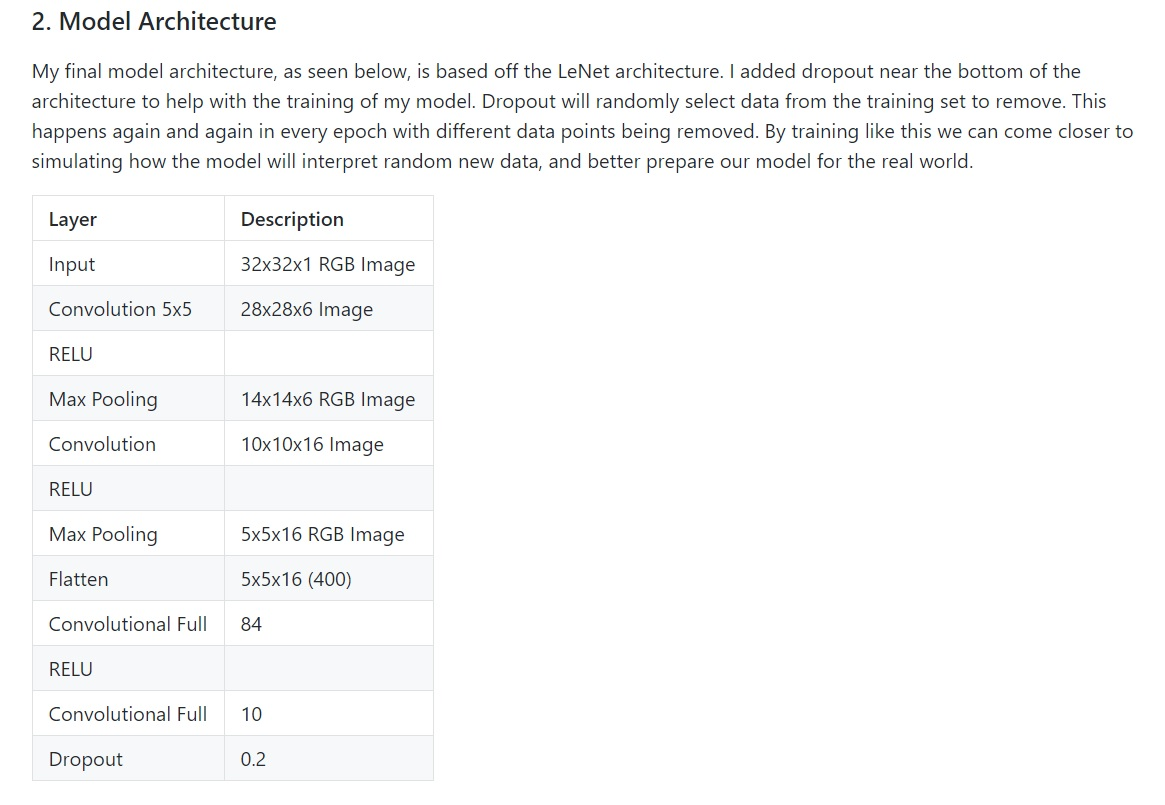
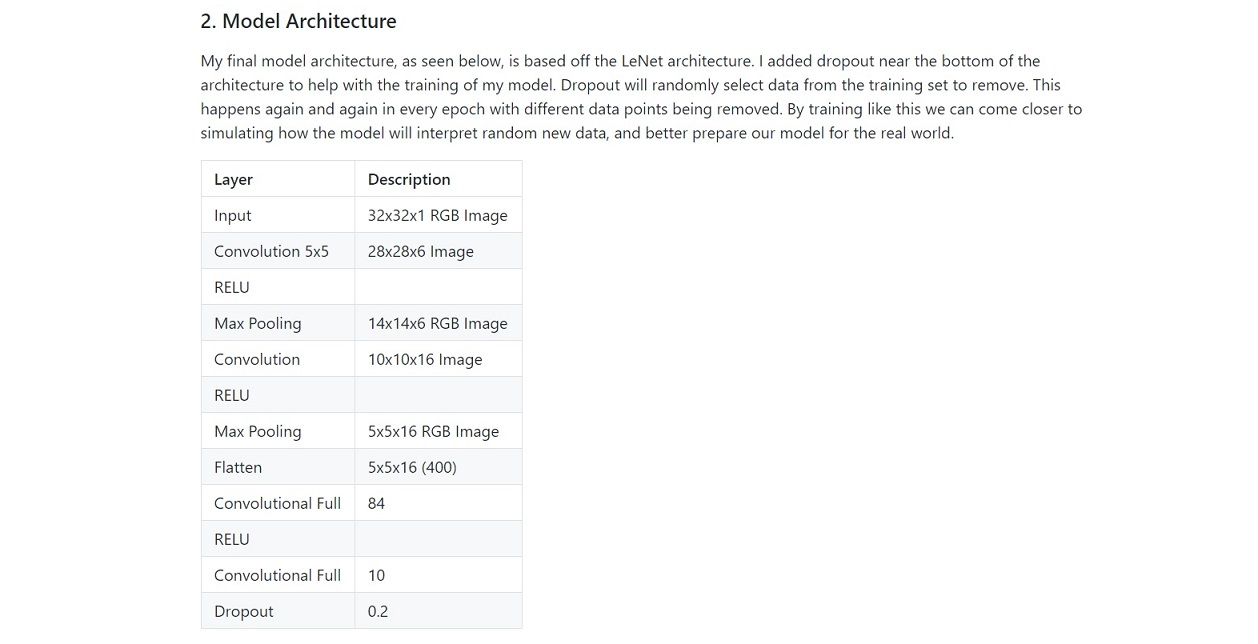
Resized images and fixed vehicle detection link

diff --git a/js/resumeBuilder.js b/js/resumeBuilder.js
@@ -138,7 +138,7 @@ var projects =
                 "classifier to search for vehicles in images. I then ran my pipeline on a video stream and created a heat map of recurring detections frame by frame to reject outliers and follow detected vehicles.",
             "images" : ["../images/hog_example.jpg","../images/example_vehicle_and_not_vehicle.jpg","../images/heatmap.jpg","../images/highlighted_lane.jpg"],
             "captions": ["In this picture you can see what an image looks like next to its histogram of oriented gradients","This is an example of a training sample used to teach my SVC Classifier the difference between an image with and an image without a car in it","This is an image of a heat map that is used to filter out false positives in the car detecting process","Finally - after using all of those techniques - this is an example of a single frame after going through my pipeline"],
-            "link": "https://github.com/CodyNicholson/Vehicle_Detection"
+            "link": "https://github.com/CodyNicholson/Vehicle_Detection_Project"
         },
         {
             "title" : "Advanced Lane Line Finding Project",
